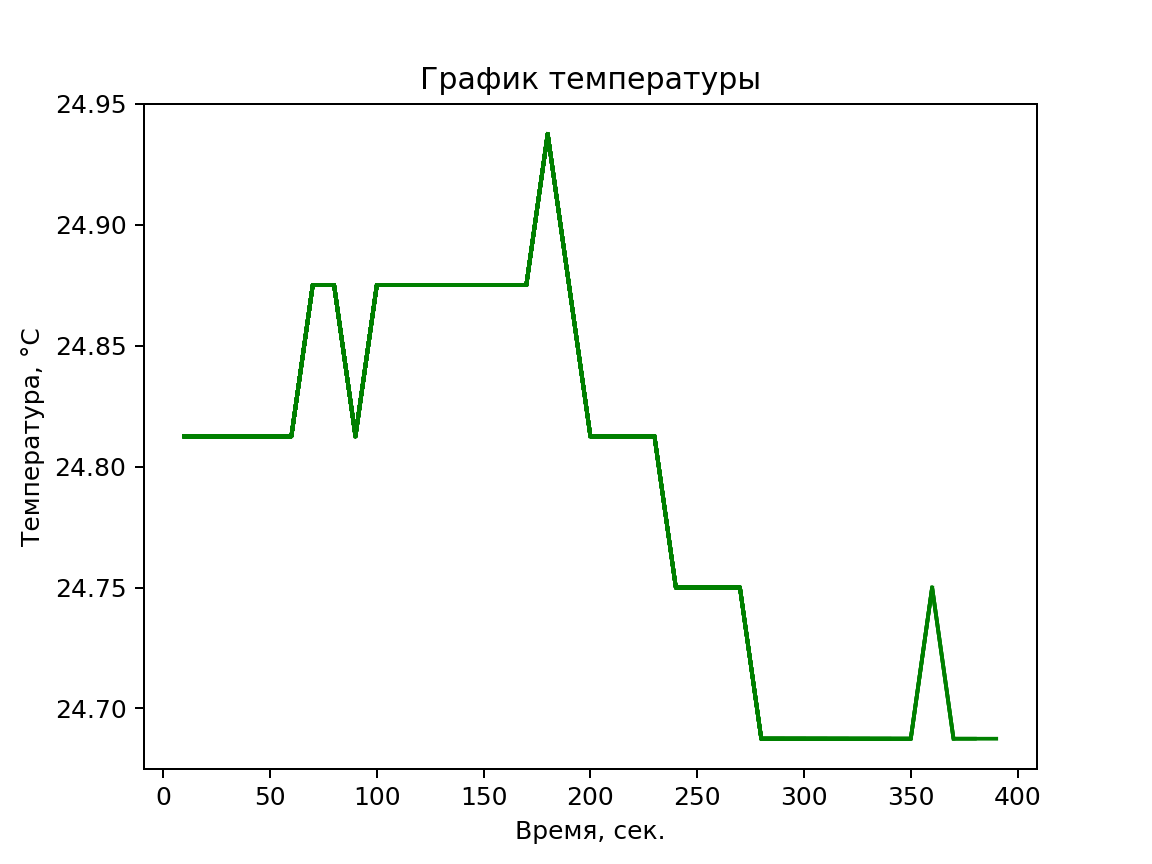
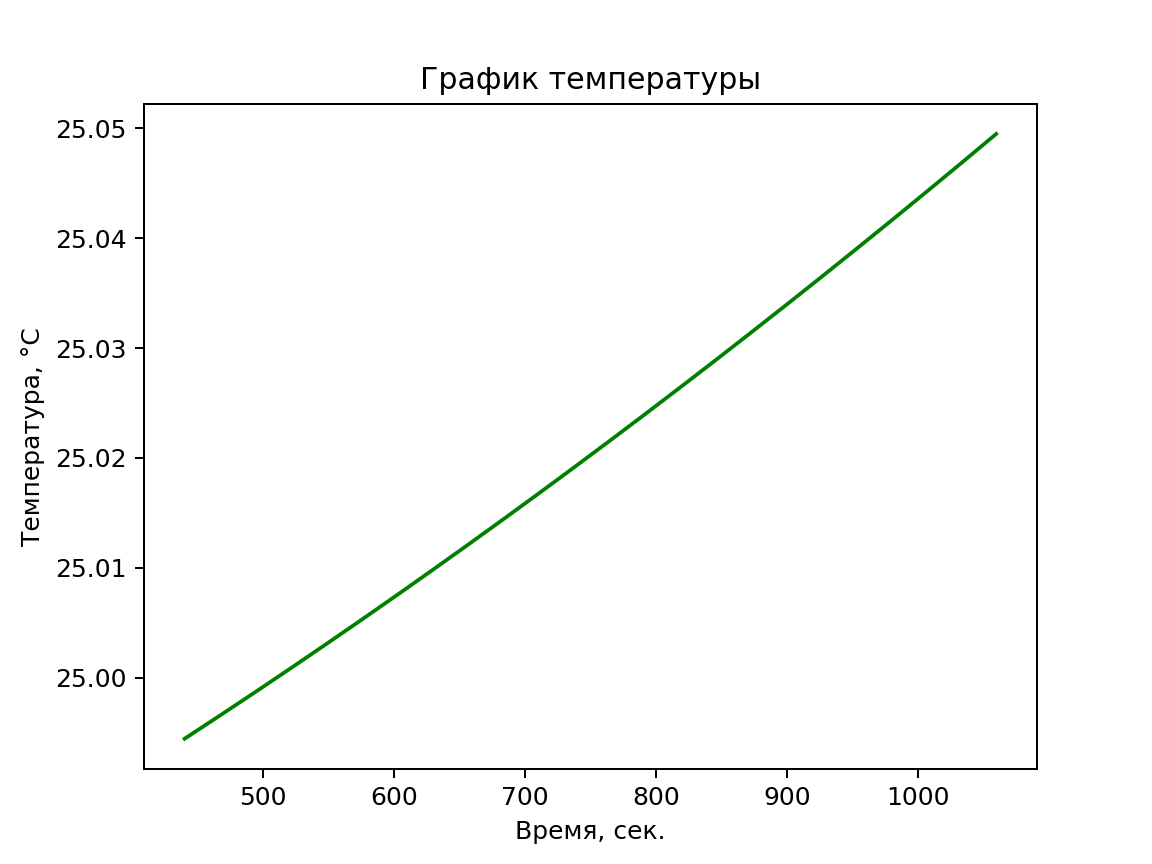
Гладкий график (не подходит)

diff --git a/read_serial_on_pc.py b/read_serial_on_pc.py
@@ -7,6 +7,14 @@ import subprocess
 import sys
 
 
+## Гладкий график
+import numpy as np
+import matplotlib.pyplot as plt
+from scipy.interpolate import UnivariateSpline
+from scipy.interpolate import make_interp_spline
+
+
+
 # Пример данных: время и температура
 # Время (например, часы)
 time_list = []
@@ -17,13 +25,22 @@ error_count = 0
 temp_color = 'green'
 temp_critical = 27.0
 
+temperature.append(24.0)
+time_list.append(2)
+temperature.append(24.1)
+time_list.append(3)
+
+
 
 while True:
 
     counter = counter + 10
-    time_list.append(counter)
     temp_from_pico = 0.0
     temp_from_pico_prev = 0.0
+
+    ## Добавляем пустые данные для гладкого графика
+    time_list.append(counter)
+
 
     try:
         temp_from_pico = subprocess.run([sys.executable, "host_command.py", "temperature"], capture_output=True, text=True).stdout.strip()
@@ -43,8 +60,24 @@ while True:
     else:
         temp_color = 'green'
 
-    # Создание графика
-    plt.plot(time_list, temperature, color=temp_color)
+    
+    x = np.array(time_list)
+    y = np.array(temperature)
+
+    # Параметр s отвечает за сглаживание: чем больше число, тем более гладкой будет линия
+    spl = UnivariateSpline(x, y, k=2, s=1) 
+    # # Автоматически строит плавную линию через все точки
+    # spl = make_interp_spline(x, y) 
+
+    x_new = np.linspace(x.min(), x.max(), 300)
+    y_new = spl(x_new)
+
+    plt.clf()
+    plt.plot(x_new, y_new, color=temp_color)
+
+
+    # # Создание графика
+    # plt.plot(time_list, temperature, color=temp_color)
 
     # Настройка заголовка и меток осей
     plt.title('График температуры')
@@ -53,22 +86,10 @@ while True:
 
     plt.savefig("temperature_plot.png", dpi=180)
 
-    # # Отображение графика
-    # # plt.show()
-
-    # ## plt.show - блокирует выполнение программы поэтому используем pause - показывая график на 10 сек.
-    # plt.pause(10)
-    # plt.close()
-
-
     time.sleep(10.0)
 
     # Держим график в диапозоне 600 секунд
     if counter > 600:
-        # time_list = []
-        # counter = 0
-        # temperature = []
-
         # Удаляем устаревший элемент
         del time_list[0]
         del temperature[0]
